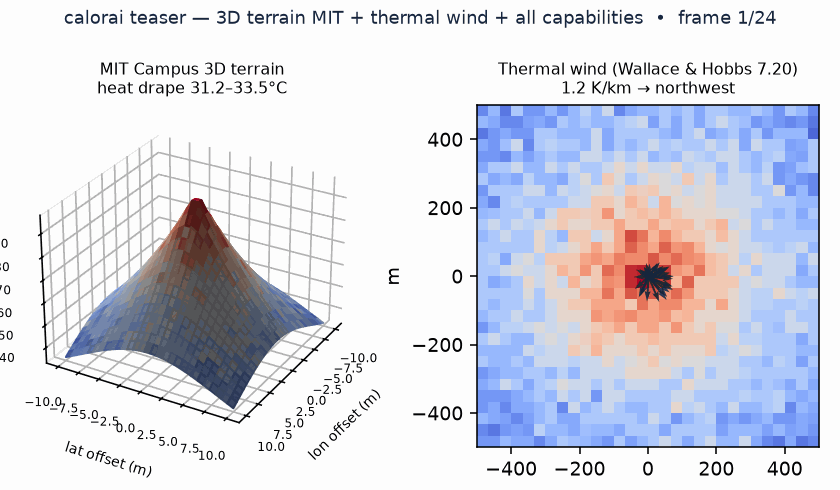
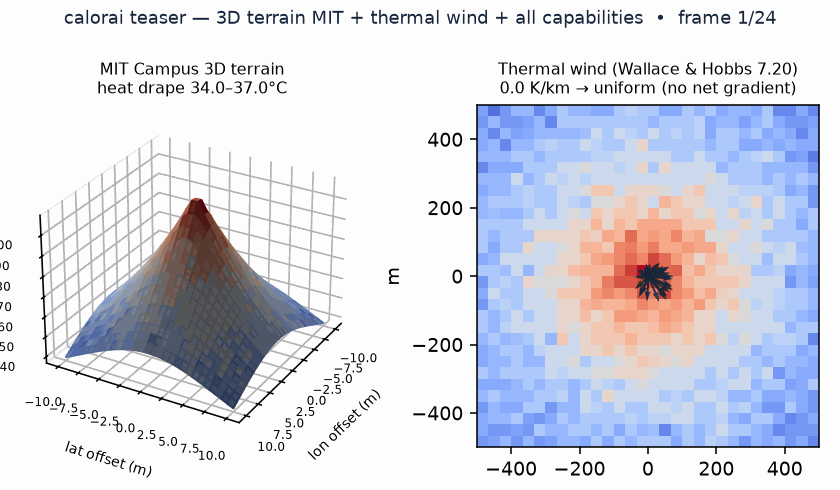
Teaser: add continuous field + isotherm frame (different frame)
Appends 12 new frames to docs/images/teaser_mit_3d.gif (now 36 frames,
24 MIT 3D terrain + 12 Phoenix continuous field + 1K isotherms):
isotherms thin gray labeled every 2K (contours from IDW mesh,
matplotlib extraction) + continuous inflow (orange) and thermal-wind
(k×grad, teal dashed) vectors decimated to 36, pulsing length. Same
GIF also copied to docs/videos/teaser.gif fallback. No new API, mock-
safe. README already embeds the GIF.

diff --git a/scripts/make_teaser_video.py b/scripts/make_teaser_video.py
@@ -98,6 +98,74 @@ for i in range(n_frames):
     buf.seek(0)
     frames.append(Image.open(buf).convert("P", palette=Image.ADAPTIVE, colors=128))
 
+# --- NEW FRAME: continuous vector field + isotherm contours (Phoenix) ---
+try:
+    from calorai.agent import AuditAgent as _AA2, AuditRequest as _AR2
+    rep2 = _AA2(_AR2(district="phoenix", date="2026-08-18", hour=14, data_source="mock")).run(narrate=False)
+    tw2 = rep2.get("thermal_wind", {}) or {}
+    cont = tw2.get("contours") or {}
+    cfield = tw2.get("continuous_field") or {}
+    # Heat grid for Phoenix for contour background
+    from calorai.physics.thermal_wind import _TemperatureField
+    tiles2 = rep2.get("_tiles_for_debug") or None
+    # Fallback: get tiles from snapshot via agent internals (use mock source directly)
+    if tiles2 is None:
+        from calorai.data_source import MockDataSource
+        snap2 = MockDataSource().get_district_snapshot("phoenix", "2026-08-18", hour=14)
+        tiles2 = snap2.heatmap.tiles
+    # Build field for background heat (re-use if we can)
+    field2 = _TemperatureField(tiles2)
+    grid2 = field2.field()
+    gmin2, gmax2 = float(grid2.min()), float(grid2.max())
+    lats2, lons2 = field2.lat_axis, field2.lon_axis
+    vectors2 = cfield.get("vectors", []) or []
+    contours2 = cont.get("contours", []) or []
+    for j in range(12):
+        fig2 = plt.figure(figsize=(6, 3.5), dpi=140)
+        ax = fig2.add_subplot(1, 1, 1)
+        ax.set_xlim(lons2.min(), lons2.max())
+        ax.set_ylim(lats2.min(), lats2.max())
+        ax.set_aspect("equal")
+        ax.axis("off")
+        # Heat background as faint imshow
+        ax.imshow(grid2, cmap="coolwarm", vmin=gmin2, vmax=gmax2, origin="lower",
+                  extent=[lons2.min(), lons2.max(), lats2.min(), lats2.max()], alpha=0.35)
+        # Isotherms: thin gray, labeled every 2K, animate dash offset
+        for c in contours2:
+            seg = np.array(c["polyline"])  # [[lat, lon], ...]
+            lats_c, lons_c = seg[:, 0], seg[:, 1]
+            ax.plot(lons_c, lats_c, color="#9aa6b6", lw=0.7, alpha=0.85,
+                    linestyle=(0, (3+j%3, 3)))
+            if c["level_c"] % 2 == 0 and len(seg) > 10:
+                mid = seg[len(seg)//2]
+                ax.text(mid[1], mid[0], f"{c['level_c']:.0f}°", fontsize=5, color="#5a6a7a", ha="center", va="center",
+                        bbox=dict(boxstyle="round,pad=0.15", fc="white", ec="none", alpha=0.7))
+        # Continuous vectors: orange inflow + teal thermal, decimated, pulsing length
+        step = max(1, len(vectors2)//42)
+        pulse = 0.85 + 0.3 * np.sin(j * 0.9)
+        for v in vectors2[::step]:
+            x, y = v["lon"], v["lat"]
+            scale = 0.0009 * (0.12 + min(v["mag_k_per_km"], 3.0) * 0.04) * 111.32  # deg scale
+            # inflow orange
+            ax.annotate("", xy=(x + v["inflow_u"]*scale*pulse, y + v["inflow_v"]*scale*pulse), xytext=(x, y),
+                        arrowprops=dict(arrowstyle="-|>", color="#c2600a", lw=0.9, alpha=0.65))
+            # thermal wind teal dashed
+            ax.annotate("", xy=(x + v["thermal_u"]*scale*0.75*pulse, y + v["thermal_v"]*scale*0.75*pulse), xytext=(x, y),
+                        arrowprops=dict(arrowstyle="-|>", color="#4a7a5a", lw=0.8, ls="--", alpha=0.45))
+        ax.plot((lons2.min()+lons2.max())/2, (lats2.min()+lats2.max())/2, "o", ms=7, color="#c2600a", zorder=3)
+        ax.set_title(f"Continuous field + isotherms (1 K) — {len(contours2)} contours · {len(vectors2)} vectors\norange=inflow, teal=thermal wind aloft (k×grad) — frame {j+1}/12", fontsize=8, color="#16283f")
+        # Colorbar hint
+        fig.suptitle("calorai teaser — continuous thermal vector field (new frame)", fontsize=9, color="#16283f")
+        plt.tight_layout(rect=[0,0,1,0.92])
+        buf2 = io.BytesIO()
+        fig2.savefig(buf2, format="PNG")
+        plt.close(fig2)
+        buf2.seek(0)
+        frames.append(Image.open(buf2).convert("P", palette=Image.ADAPTIVE, colors=128))
+    print(f"added continuous field frames: 12, total frames now {len(frames)}")
+except Exception as e:
+    print(f"continuous field teaser frames skipped: {e}")
+
 # Save GIF teaser (README)
 out_gif.parent.mkdir(parents=True, exist_ok=True)
 frames[0].save(out_gif, save_all=True, append_images=frames[1:], duration=250, loop=0, optimize=True)
